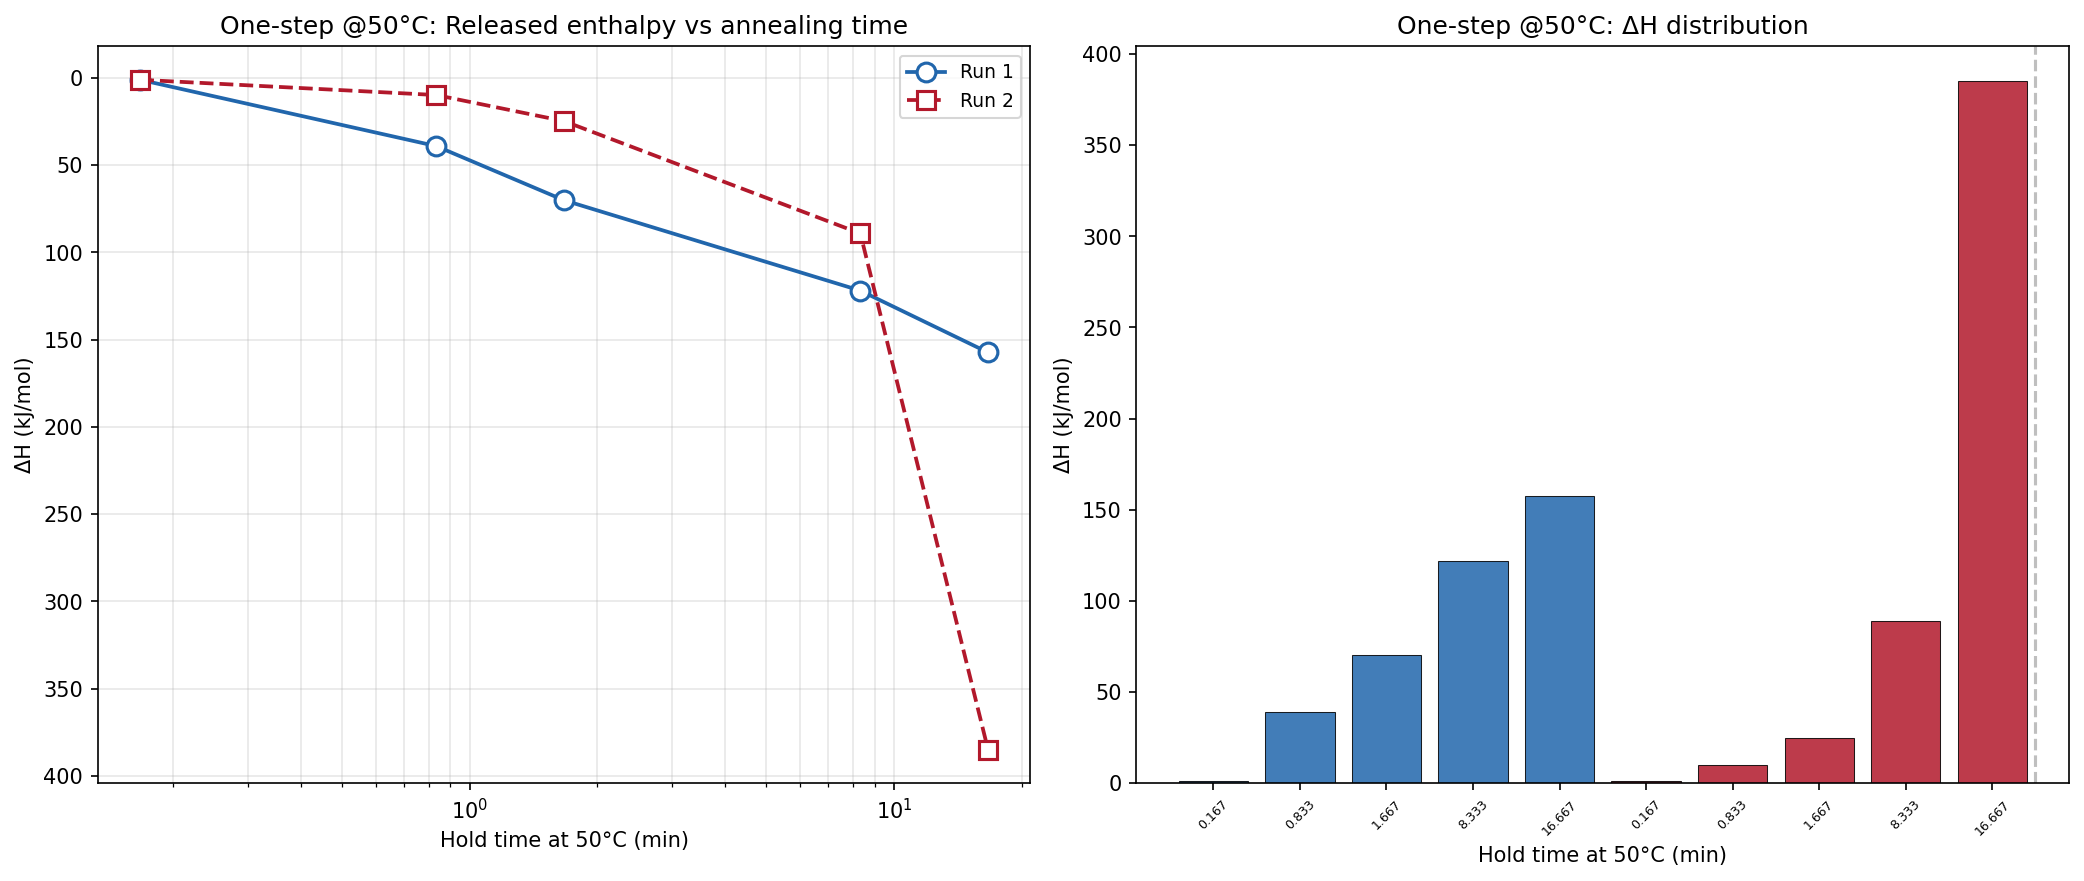
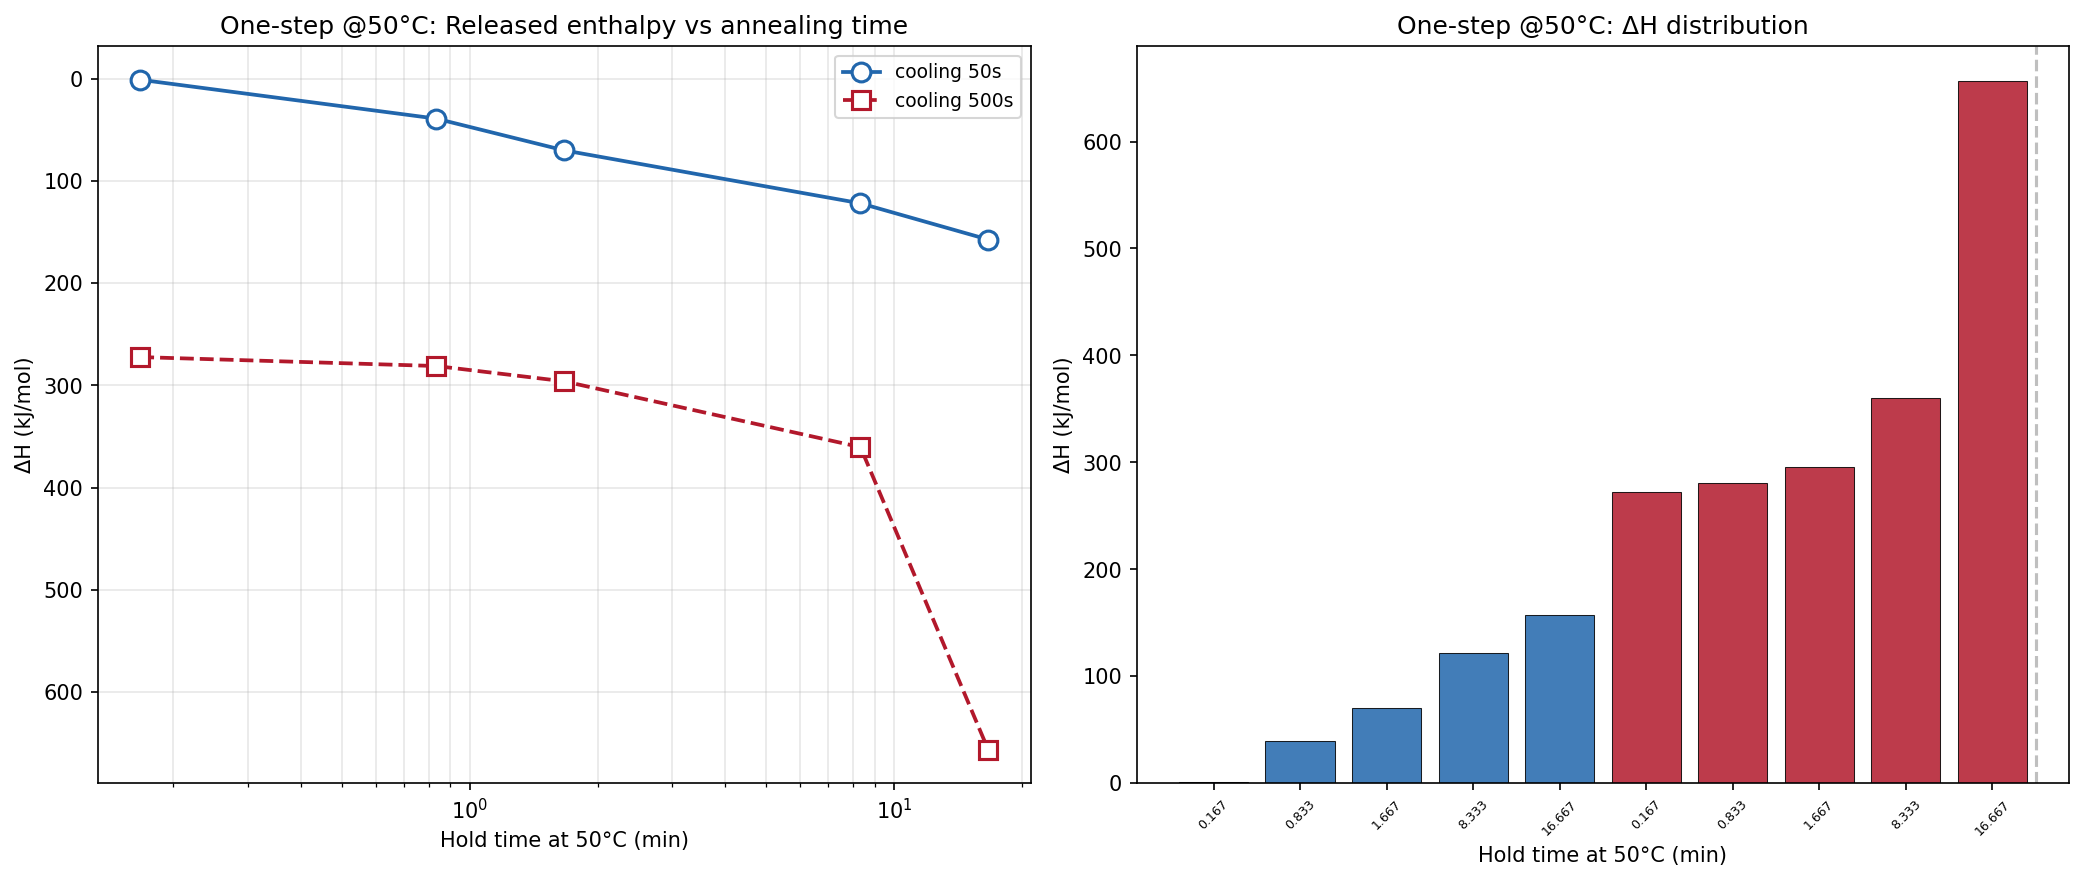
Fix onestep: global reference, cooling protocol labels
- Legend: Run1→"cooling 50s", Run2→"cooling 500s"
- Single global reference preserves offset between cooling protocols
- 70°C cooling 500s: sample at equilibrium (flat trend, not wrong)

diff --git a/src/process_onestep.py b/src/process_onestep.py
@@ -194,17 +194,15 @@ def process_onestep(data_file, sheet, T_anneal, label, out_name):
         int_mask = (T_grid >= T_INT_LOW) & (T_grid <= T_INT_HIGH)
         raw_integrals.append(trapezoid(delta_DSC[int_mask], T_grid[int_mask]))
 
-    # Per-run reference (after filtering, first half = Run 1, second half = Run 2)
-    n = len(raw_integrals) // 2
-    ref_R1 = raw_integrals[0]
-    ref_R2 = raw_integrals[n] if n > 0 else ref_R1
-    all_diffs = [(r - (ref_R1 if i < n else ref_R2)) * CONV_KJMOL for i, r in enumerate(raw_integrals)]
+    # Single global reference: shortest hold in Run 1 for both runs
+    # This preserves the offset between cooling protocols (50s vs 500s)
+    ref_global = raw_integrals[0]
+    all_diffs = [(r - ref_global) * CONV_KJMOL for r in raw_integrals]
     offset = max(0, -min(all_diffs)) + 1.0
     results = []
     for ramp_idx, cond in enumerate(conditions):
         integral = raw_integrals[ramp_idx]
-        ref = ref_R1 if ramp_idx < n else ref_R2
-        delta_H_raw = (integral - ref) * CONV_KJMOL
+        delta_H_raw = (integral - ref_global) * CONV_KJMOL
         delta_H = delta_H_raw + offset
         results.append({
             'ramp': ramp_idx + 1, 'hold_min': cond['hold_min'],
@@ -224,9 +222,9 @@ def process_onestep(data_file, sheet, T_anneal, label, out_name):
     r1 = results_df.iloc[:n_half]
     r2 = results_df.iloc[n_half:]
     ax1.plot(r1['hold_min'], r1['delta_H_kJmol'], 'o-', color='#2166AC', linewidth=1.8,
-             markersize=9, markerfacecolor='white', markeredgewidth=1.5, label='Run 1')
+             markersize=9, markerfacecolor='white', markeredgewidth=1.5, label='cooling 50s')
     ax1.plot(r2['hold_min'], r2['delta_H_kJmol'], 's--', color='#B2182B', linewidth=1.8,
-             markersize=9, markerfacecolor='white', markeredgewidth=1.5, label='Run 2')
+             markersize=9, markerfacecolor='white', markeredgewidth=1.5, label='cooling 500s')
     ax1.set_xlabel(f'Hold time at {T_anneal}°C (min)')
     ax1.set_ylabel(f'ΔH (kJ/mol)')
     ax1.set_title(f'{label}: Released enthalpy vs annealing time')
@@ -266,8 +264,8 @@ def process_onestep(data_file, sheet, T_anneal, label, out_name):
         print(f"  {r['ramp']:<4.0f}  {r['hold_min']:>12.4f}  {r['delta_H_kJmol']:>12.2f}")
     run1 = results_df.iloc[:n_half]
     run2 = results_df.iloc[n_half:]
-    print(f"\n  Run 1: ΔH = {run1['delta_H_kJmol'].min():.2f} – {run1['delta_H_kJmol'].max():.2f} kJ/mol")
-    print(f"  Run 2: ΔH = {run2['delta_H_kJmol'].min():.2f} – {run2['delta_H_kJmol'].max():.2f} kJ/mol")
+    print(f"\n  cooling 50s: ΔH = {run1['delta_H_kJmol'].min():.2f} – {run1['delta_H_kJmol'].max():.2f} kJ/mol")
+    print(f"  cooling 500s: ΔH = {run2['delta_H_kJmol'].min():.2f} – {run2['delta_H_kJmol'].max():.2f} kJ/mol")
 
     return results_df
 
